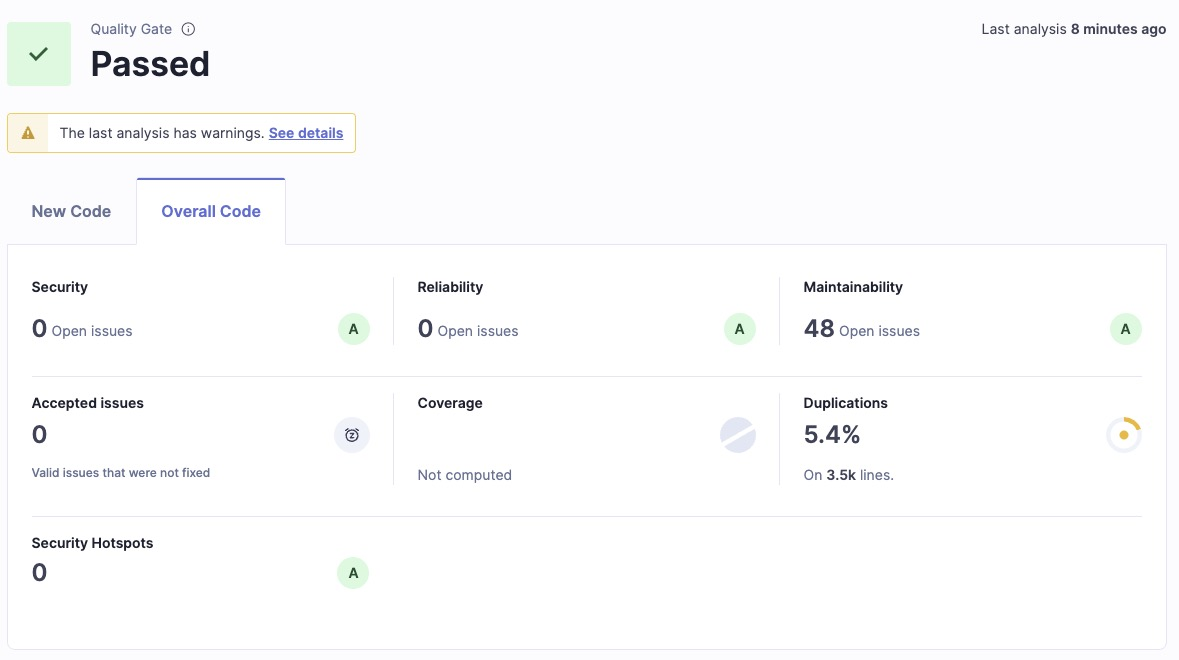
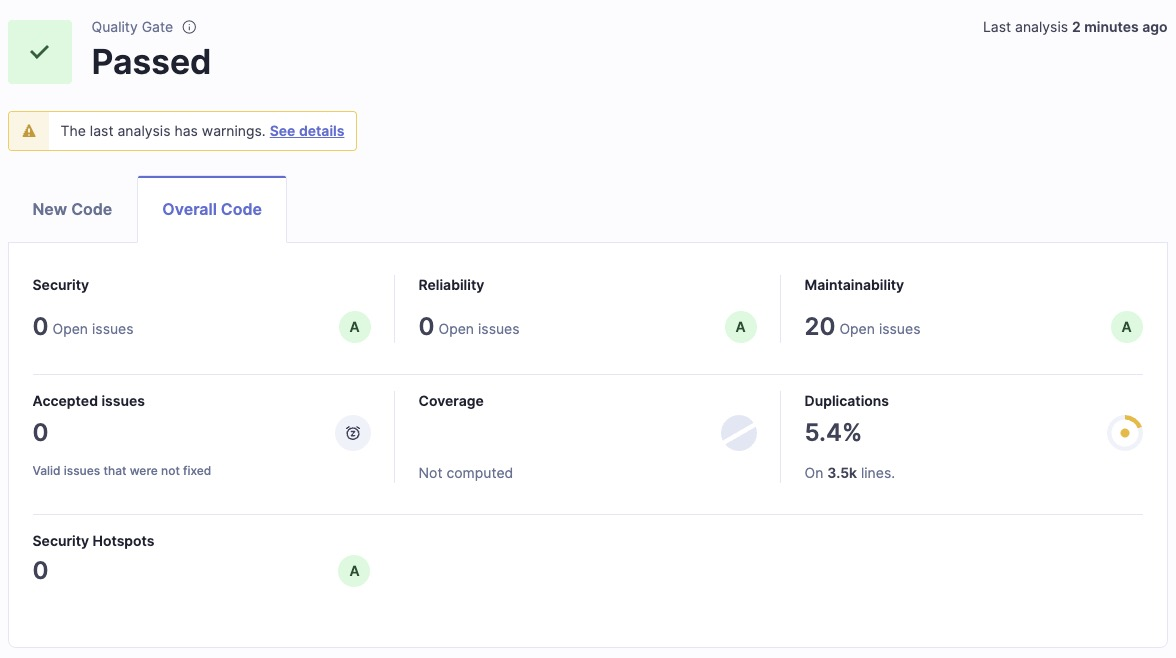
Refactoring as Sonar Qube report

diff --git a/GradeBook/src/main/java/dao/GradeDAO.java b/GradeBook/src/main/java/dao/GradeDAO.java
@@ -9,9 +9,19 @@ import java.util.List;
 
 public class GradeDAO {
     private static Connection conn = MariaDbConnection.getConnection();
+    private static final String COL_ID = "id";
+    private static final String COL_GRADE = "grade";
+    private static final String COL_STUDENT_ID = "student_id";
+    private static final String COL_GROUP_ID = "group_id";
+    private static final String COL_GRADE_TYPE_ID = "grade_type_id";
+
 
     public static void setConnection(Connection conn) {
         GradeDAO.conn = conn;
+    }
+
+    private GradeDAO() {
+        // Private constructor to prevent instantiation
     }
 
     // Insert data
@@ -83,16 +93,16 @@ public class GradeDAO {
     // check all Grade
     public static List<Grade> showAllGrades() throws SQLException {
         List<Grade> grades = new ArrayList<>();
-        String query = "SELECT * FROM grades";
+        String query = "SELECT id, grade, student_id, group_id, grade_type_id FROM grades";
         try (PreparedStatement stmt = conn.prepareStatement(query);
              ResultSet rs = stmt.executeQuery()) {
             while (rs.next()) {
                 grades.add(new Grade(
-                        rs.getInt("id"),
-                        rs.getDouble("grade"),
-                        rs.getInt("student_id"),
-                        rs.getInt("group_id"),
-                        rs.getInt("grade_type_id")
+                    rs.getInt(COL_ID),
+                    rs.getDouble(COL_GRADE),
+                    rs.getInt(COL_STUDENT_ID),
+                    rs.getInt(COL_GROUP_ID),
+                    rs.getInt(COL_GRADE_TYPE_ID)
                 ));
             }
         }
@@ -102,17 +112,17 @@ public class GradeDAO {
     // check all Grade by student id
     public static List<Grade> showGradesByStudentId(int studentId) throws SQLException {
         List<Grade> grades = new ArrayList<>();
-        String query = "SELECT * FROM grades WHERE student_id = ?";
+        String query = "SELECT id, grade, student_id, group_id, grade_type_id FROM grades WHERE student_id = ?";
         try (PreparedStatement stmt = conn.prepareStatement(query)) {
             stmt.setInt(1, studentId);
             try (ResultSet rs = stmt.executeQuery()) {
                 while (rs.next()) {
                     grades.add(new Grade(
-                            rs.getInt("id"),
-                            rs.getDouble("grade"),
-                            rs.getInt("student_id"),
-                            rs.getInt("group_id"),
-                            rs.getInt("grade_type_id")
+                        rs.getInt(COL_ID),
+                        rs.getDouble(COL_GRADE),
+                        rs.getInt(COL_STUDENT_ID),
+                        rs.getInt(COL_GROUP_ID),
+                        rs.getInt(COL_GRADE_TYPE_ID)
                     ));
                 }
             }
@@ -123,17 +133,17 @@ public class GradeDAO {
     // check all Grade by group id
     public static List<Grade> showGradesByGroupId(int groupId) throws SQLException {
         List<Grade> grades = new ArrayList<>();
-        String query = "SELECT * FROM grades WHERE group_id = ?";
+        String query = "SELECT id, grade, student_id, group_id, grade_type_id FROM grades WHERE group_id = ?";
         try (PreparedStatement stmt = conn.prepareStatement(query)) {
             stmt.setInt(1, groupId);
             try (ResultSet rs = stmt.executeQuery()) {
                 while (rs.next()) {
                     grades.add(new Grade(
-                            rs.getInt("id"),
-                            rs.getDouble("grade"),
-                            rs.getInt("student_id"),
-                            rs.getInt("group_id"),
-                            rs.getInt("grade_type_id")
+                        rs.getInt(COL_ID),
+                        rs.getDouble(COL_GRADE),
+                        rs.getInt(COL_STUDENT_ID),
+                        rs.getInt(COL_GROUP_ID),
+                        rs.getInt(COL_GRADE_TYPE_ID)
                     ));
                 }
             }

diff --git a/GradeBook/src/main/java/controller/GradeController.java b/GradeBook/src/main/java/controller/GradeController.java
@@ -51,6 +51,10 @@ public class GradeController {
     private static Map<String, Object> avgRow;
     private static ResourceBundle bundle = LangContext.getBundle();
 
+    private GradeController() {
+        // Private constructor to prevent instantiation
+    }
+
     public static void showGradeEditor(GradeBookView view, int groupId, String groupName) {
         rootview = view;
         currentGroupId = groupId;
@@ -72,7 +76,6 @@ public class GradeController {
         HBox buttonContainer = new HBox(exportButton);
         buttonContainer.setAlignment(Pos.CENTER);
 
-//        exportButton.setOnAction(e -> exportToPDF());
         exportButton.setOnAction(e -> exportToPDFFromTable());
         VBox layout = new VBox(10);
         layout.setPadding(new Insets(20, 20, 20, 20));
@@ -214,25 +217,6 @@ public class GradeController {
             showError("Database error", "Unable to update grade: " + e.getMessage());
         }
     }
-
-//    private static void handleDelete() {
-//        Map<String, Object> selectedRow = gradeTable.getSelectionModel().getSelectedItem();
-//        if (selectedRow == null) {
-//            showError("Selection error", "Please select a grade to delete.");
-//            return;
-//        }
-//
-//        int studentId = (int) selectedRow.get("studentId");
-//        int gradeTypeId = 1;
-//        double gradeValue = (double) selectedRow.getOrDefault("total", 0.0);
-//
-//        try {
-//            GradeDAO.deleteGradeByStudentAndType(studentId, currentGroupId, gradeTypeId);
-//            loadGradeData();
-//        } catch (SQLException e) {
-//            showError("Database error", "Unable to delete grade: " + e.getMessage());
-//        }
-//    }
 
     private static void updateTexts() {
         exportButton.setText(bundle.getString("export"));

diff --git a/GradeBook/src/main/java/controller/UserController.java b/GradeBook/src/main/java/controller/UserController.java
@@ -55,11 +55,10 @@ public class UserController {
         User user = new User(0, username, password);
         try {
             UserDAO.registerUser(user);
-            System.out.println("User registered successfully!");
+            logger.info("User registered successfully");
             Integer userId = UserDAO.loginUser(username, password);
             if (userId != null) {
-                System.out.println("Login successful!");
-                //view.showSystemInterface((Stage) view.getRegisterButton().getScene().getWindow());
+                logger.info("User logged in successfully");
                 view.showSystemInterface();
             }
         } catch (SQLException | NoSuchAlgorithmException ex) {
@@ -73,13 +72,11 @@ public class UserController {
         try {
             Integer userId = UserDAO.loginUser(username, password);
             if (userId != null) {
-                System.out.println("Login successful! User ID: " + userId);
+                logger.info("Login successful! User ID: " + userId);
                 view.setCurrentUserId(userId);
                 view.showSystemInterface();
             } else {
                 view.setErrorLabel("Invalid username or password.");
-                return;
-                //System.out.println("Invalid username or password.");
             }
         } catch (SQLException | NoSuchAlgorithmException ex) {
             logger.error("Error during user login", ex);

diff --git a/GradeBook/src/main/java/application/GradeBookView.java b/GradeBook/src/main/java/application/GradeBookView.java
@@ -77,7 +77,6 @@ public class GradeBookView extends Application {
 
         usernameField = new TextField();
         usernameField.setId("usernameField");
-        //usernameField.setPromptText("Username");
         grid.add(usernameField, 1, 3);
 
         password = new Label(bundle.getString("password"));
@@ -86,7 +85,6 @@ public class GradeBookView extends Application {
 
         passwordField = new PasswordField();
         passwordField.setId("passwordField");
-        //passwordField.setPromptText("Password");
         grid.add(passwordField, 1, 4);
 
         // Buttons
@@ -160,7 +158,7 @@ public class GradeBookView extends Application {
     public void setLang(String lang) {
         this.currentLang = lang;
         this.bundle= ResourceBundle.getBundle("messages", new Locale(lang));
-        System.out.println("Language set to: " + lang.toUpperCase());
+        logger.info("Language set to: " + lang.toUpperCase());
 
     }
     public ResourceBundle getBundle() {
@@ -220,9 +218,6 @@ public class GradeBookView extends Application {
 
 
     public void openGroups() {
-        //GroupManageView groupManageView = new GroupManageView();
-        //Stage stage = new Stage();
-        //groupManageView.start(root);
         try {
             FXMLLoader loader = new FXMLLoader(getClass().getResource("/group.fxml"),getBundle());
             loader.setController(new GroupManageController(this,getBundle()));

diff --git a/GradeBook/src/main/java/dao/GradeTypeDAO.java b/GradeBook/src/main/java/dao/GradeTypeDAO.java
@@ -10,6 +10,10 @@ import java.util.List;
 public class GradeTypeDAO {
     private static Connection conn = MariaDbConnection.getConnection();
 
+    private GradeTypeDAO() {
+        // Private constructor to prevent instantiation
+    }
+
     public static void setConnection(Connection conn) {
         GradeTypeDAO.conn = conn;
     }
@@ -61,7 +65,7 @@ public class GradeTypeDAO {
 
     // check all GradeType
     public static List<GradeType> showAllGradeTypes() throws SQLException {
-        String query = "SELECT * FROM grade_types";
+        String query = "SELECT id, name, weight, group_id FROM grade_types";
         List<GradeType> gradeTypes = new ArrayList<>();
 
         try (PreparedStatement stmt = conn.prepareStatement(query);
@@ -81,7 +85,7 @@ public class GradeTypeDAO {
 
     // check GradeType by groupId
     public static List<GradeType> showGradeTypesByGroupId(int groupId) throws SQLException {
-        String query = "SELECT * FROM grade_types WHERE group_id = ?";
+        String query = "SELECT id, name, weight, group_id FROM grade_types WHERE group_id = ?";
         List<GradeType> gradeTypes = new ArrayList<>();
 
         try (PreparedStatement stmt = conn.prepareStatement(query)) {

diff --git a/GradeBook/src/main/java/controller/AddNewGroupController.java b/GradeBook/src/main/java/controller/AddNewGroupController.java
@@ -17,6 +17,7 @@ import util.LangContext;
 
 import java.io.IOException;
 import java.util.ResourceBundle;
+
 import org.slf4j.Logger;
 import org.slf4j.LoggerFactory;
 
@@ -184,7 +185,7 @@ public class AddNewGroupController {
     @FXML
     void createNewGroup(MouseEvent event) {
         if (groupName.getText().isEmpty() || groupDes.getText().isEmpty()) {
-            System.out.println(bundle.getString("groupNameEmpty"));
+            logger.error(bundle.getString("groupNameEmpty"));
             return;
         }
         
